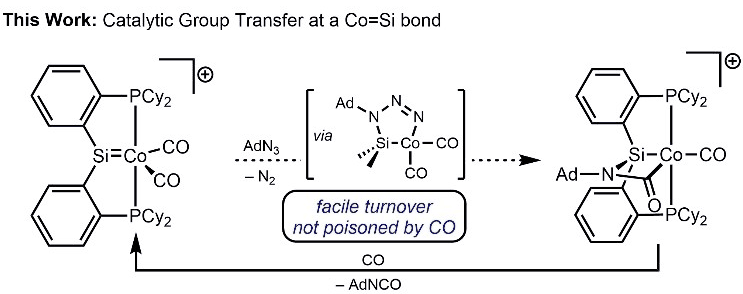
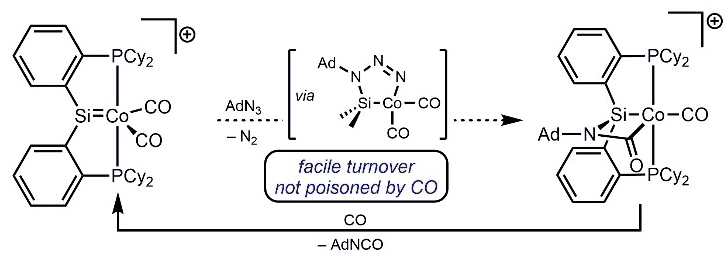
feat: research motifs, timeline, floating section rail, clickable schemes
- Four drawn SVG motifs, one per research bullet: a branching network, a
  seven-membered ring with a migrating group, a set of timecourses, and a Co=Si
  bond. Drawn rather than extracted so they take colour from the theme and stay
  sharp at any zoom, ~1 KB each.
- Publication timeline positioned true to the years, so the gap after 2018 is
  real rather than evenly spaced. Decorative, since every year is in the
  citations below.
- The section nav becomes a fixed rail in the left gutter above 70em, keeping
  one nav element so only one navigation landmark is ever exposed. Adds an 'On
  this page' label, dot markers, and a target-based active state via :has().
- Graphical abstracts link to their DOI, with the border picking up the accent
  on hover and focus.
- Angew scheme recropped without the 'This Work' caption.
- Key phrases bolded in the bio; recital linked from the music minor.

Changed region(s): [[0.0, 0.0276, 1.0, 0.9921], [0.3034, 0.3858, 0.3641, 0.4409]]

diff --git a/index.html b/index.html
@@ -81,12 +81,13 @@
 <main id="main" tabindex="-1">
 
   <p>
-    I study how selectivity arises in reversible reaction networks. Using dynamic radical
-    chemistry, I remodel the skeletons and peripheries of saturated,
-    C(sp<sup>3</sup>)-rich molecules, and I build differentiable kinetic models so that
-    the behavior of those networks becomes something we can measure and predict rather
-    than only rationalize. Before MIT, I studied chemistry and computer science at
-    Carleton College, where I also minored in music performance.
+    I study <strong>how selectivity arises in reversible reaction networks</strong>. Using
+    dynamic radical chemistry, I remodel the skeletons and peripheries of saturated,
+    C(sp<sup>3</sup>)-rich molecules, and I build <strong>differentiable kinetic
+    models</strong> so that the behavior of those networks becomes something we can measure
+    and predict rather than only rationalize. Before MIT, I studied chemistry and computer
+    science at Carleton College, where I also minored in
+    <a href="https://imagencloud.carleton.edu/record/62771">music performance in voice</a>.
   </p>
 
   <!-- role="list" is redundant per spec but restores the list semantics that
@@ -118,7 +119,11 @@
     </li>
   </ul>
 
+  <!-- One nav, restyled by viewport: an inline row on narrow screens, a fixed
+       rail in the left gutter on wide ones. Keeping a single element avoids
+       exposing two navigation landmarks for the same links. -->
   <nav class="linkrow section-nav" aria-label="Sections">
+    <span class="nav-label">On this page</span>
     <a href="#research">Research</a>
     <a href="#publications">Publications</a>
     <a href="#software">Software</a>
@@ -127,30 +132,80 @@
 
   <section id="research">
     <h2>Research</h2>
-    <ul class="stack" role="list">
+    <!-- Motifs are drawn rather than extracted so they take their colour from
+         the theme and stay sharp at any zoom. Decorative: each one restates the
+         sentence beside it, so they carry no alt text of their own. -->
+    <ul class="stack research" role="list">
       <li>
-        <strong>Reaction-network control.</strong> In a densely connected, reversible
-        network, selectivity can arise from how many rate constants relate to one another
-        rather than from a single rate-determining step.
+        <svg class="motif" viewBox="0 0 56 40" aria-hidden="true" focusable="false">
+          <g fill="none" stroke="currentColor" stroke-linecap="round" stroke-width="1.4">
+            <path d="M9 12v17M9 29l19 5M28 34l19-6M28 7v27M47 13v15M9 12l19 22" opacity=".3"/>
+            <path d="M9 12l19-5 19 6" stroke-width="2.4"/>
+          </g>
+          <g fill="currentColor">
+            <circle cx="9" cy="12" r="2.8"/><circle cx="28" cy="7" r="2.8"/><circle cx="47" cy="13" r="2.8"/>
+            <g opacity=".3"><circle cx="9" cy="29" r="2.3"/><circle cx="28" cy="34" r="2.3"/><circle cx="47" cy="28" r="2.3"/></g>
+          </g>
+        </svg>
+        <p>
+          <strong>Reaction-network control.</strong> In a densely connected, reversible
+          network, selectivity can arise from how many rate constants relate to one another
+          rather than from a single rate-determining step.
+        </p>
       </li>
       <li>
-        <strong>Skeletal and peripheral remodeling.</strong> Reversible hydrogen atom
-        transfer samples radicals at multiple ring positions while a downstream radical
-        addition and β-scission sequence sets the product,
-        <a href="#publications">migrating a ketone across seven-membered rings</a> to give
-        1,4-disubstituted products.
+        <svg class="motif" viewBox="0 0 56 40" aria-hidden="true" focusable="false">
+          <g fill="none" stroke="currentColor" stroke-linecap="round" stroke-linejoin="round">
+            <path d="M24 5l11.7 5.7 2.9 12.6-8.1 10.2h-13l-8.1-10.2 2.9-12.6z" stroke-width="1.5" opacity=".4"/>
+            <path d="M25.5 8Q39 18 31.5 30.5" stroke-width="1.7"/>
+            <path d="M35.6 27.7L31.5 30.5 32 25.5" stroke-width="1.7"/>
+          </g>
+          <g fill="currentColor">
+            <circle cx="24" cy="5" r="2.6" opacity=".4"/>
+            <circle cx="30.5" cy="33.5" r="3.1"/>
+          </g>
+        </svg>
+        <p>
+          <strong>Skeletal and peripheral remodeling.</strong> Reversible hydrogen atom
+          transfer samples radicals at multiple ring positions while a downstream radical
+          addition and β-scission sequence sets the product,
+          <a href="#publications">migrating a ketone across seven-membered rings</a> to give
+          1,4-disubstituted products.
+        </p>
       </li>
       <li>
-        <strong>Differentiable kinetic modeling.</strong> I recover rate constants from
-        timecourse data using networks specified in <code>Catalyst.jl</code>, stiff solvers
-        from <code>DifferentialEquations.jl</code>, and adjoint sensitivities from
-        <code>SciMLSensitivity.jl</code>.
+        <svg class="motif" viewBox="0 0 56 40" aria-hidden="true" focusable="false">
+          <g fill="none" stroke="currentColor" stroke-linecap="round">
+            <path d="M7 6v28h45" stroke-width="1.3" opacity=".3"/>
+            <path d="M7 10c9 0 8 20 45 22" stroke-width="1.6" opacity=".45"/>
+            <path d="M7 33c5 0 6-18 15-16.5S37 28 52 30" stroke-width="1.6" opacity=".45"/>
+            <path d="M7 33c15 0 15-22 45-24" stroke-width="2.2"/>
+          </g>
+        </svg>
+        <p>
+          <strong>Differentiable kinetic modeling.</strong> I recover rate constants from
+          timecourse data using networks specified in <code>Catalyst.jl</code>, stiff solvers
+          from <code>DifferentialEquations.jl</code>, and adjoint sensitivities from
+          <code>SciMLSensitivity.jl</code>.
+        </p>
       </li>
       <li>
-        <strong>Metal–ligand cooperativity.</strong> In cobalt silylenes the Co=Si bond
-        offers two chemically distinct activation sites, letting cobalt and silicon divide
-        a nitrene transfer to carbon monoxide that would otherwise poison a single-site
-        catalyst.
+        <svg class="motif" viewBox="0 0 56 40" aria-hidden="true" focusable="false">
+          <g fill="none" stroke="currentColor" stroke-linecap="round" stroke-width="1.5">
+            <path d="M14 13.5L7 8M14 26.5L7 32M42 13.5L49 8M42 26.5L49 32" opacity=".35"/>
+            <path d="M22.5 17.5h11M22.5 22.5h11" stroke-width="2"/>
+          </g>
+          <g fill="currentColor">
+            <circle cx="17" cy="20" r="5"/>
+            <circle cx="39" cy="20" r="4.2"/>
+          </g>
+        </svg>
+        <p>
+          <strong>Metal–ligand cooperativity.</strong> In cobalt silylenes the Co=Si bond
+          offers two chemically distinct activation sites, letting cobalt and silicon divide
+          a nitrene transfer to carbon monoxide that would otherwise poison a single-site
+          catalyst.
+        </p>
       </li>
     </ul>
     <p class="note">Current work extends these ideas to new scaffolds and reaction classes.</p>
@@ -158,6 +213,14 @@
 
   <section id="publications">
     <h2>Publications</h2>
+    <!-- Positions are true to the years, so the gap after 2018 is real. The
+         same years are in every citation below, so this is decorative. -->
+    <ol class="timeline" aria-hidden="true">
+      <li style="--at:0%"><span>2018</span></li>
+      <li style="--at:50%"><span>2022</span></li>
+      <li style="--at:87.5%"><span>2025</span></li>
+      <li style="--at:100%"><span>2026</span></li>
+    </ol>
     <ul class="pubs" role="list">
 
       <li>
@@ -185,9 +248,10 @@
           author)</span>
         </p>
         <p class="pub-venue"><i>J. Am. Chem. Soc.</i> 2025, 147, 32077–32084.</p>
-        <img class="toc" src="assets/toc-jacs-2025.png" width="1302" height="561"
-             loading="lazy" decoding="async"
-             alt="Graphical abstract: a 1,1-disubstituted acylcycloheptane converts by way of a bicyclo[3.2.1] oxyl radical into its 1,4-disubstituted isomer.">
+        <a class="toc-link" href="https://doi.org/10.1021/jacs.5c10470">
+          <img class="toc" src="assets/toc-jacs-2025.png" width="1302" height="561"
+               loading="lazy" decoding="async"
+               alt="Graphical abstract: a 1,1-disubstituted acylcycloheptane converts by way of a bicyclo[3.2.1] oxyl radical into its 1,4-disubstituted isomer."></a>
       </li>
 
       <li>
@@ -200,9 +264,10 @@
           Zhang, J.; Kohen, D.
         </p>
         <p class="pub-venue"><i>Angew. Chem. Int. Ed.</i> 2022, 61, e202205748 · Hot Paper.</p>
-        <img class="toc" src="assets/toc-angew-2022.png" width="743" height="294"
-             loading="lazy" decoding="async"
-             alt="Graphical abstract: a cationic cobalt silylene turns adamantyl azide and carbon monoxide into adamantyl isocyanate, with turnover that carbon monoxide does not poison.">
+        <a class="toc-link" href="https://doi.org/10.1002/anie.202205748">
+          <img class="toc" src="assets/toc-angew-2022.png" width="725" height="254"
+               loading="lazy" decoding="async"
+               alt="Scheme: a cationic cobalt silylene turns adamantyl azide and carbon monoxide into adamantyl isocyanate, with turnover that carbon monoxide does not poison."></a>
       </li>
 
       <li>

diff --git a/styles.css b/styles.css
@@ -277,6 +277,72 @@ h1 {
   margin-top: var(--s4);
   padding-top: var(--s4);
   border-top: 1px solid var(--hairline);
+  align-items: baseline;
+}
+
+.nav-label {
+  font-size: 0.75rem;
+  font-weight: 600;
+  letter-spacing: 0.08em;
+  text-transform: uppercase;
+  color: var(--muted);
+}
+
+.section-nav a::before {
+  content: "";
+  width: 5px;
+  height: 5px;
+  margin-right: 0.5em;
+  border-radius: 50%;
+  background: currentColor;
+  opacity: 0.45;
+}
+
+.section-nav a:hover::before,
+.section-nav a:focus-visible::before {
+  opacity: 1;
+}
+
+/* Wide screens have empty gutters, so the same nav becomes a fixed rail beside
+   the column instead of a row above it. 32rem = half the 42rem measure plus the
+   rail's own width and gap, so it never collides with the text. */
+@media (min-width: 70em) {
+  .section-nav {
+    position: fixed;
+    top: 50%;
+    left: calc(50% - 32rem);
+    transform: translateY(-50%);
+    flex-direction: column;
+    align-items: flex-start;
+    gap: var(--s3);
+    width: 9rem;
+    margin: 0;
+    padding: var(--s1) 0 var(--s1) var(--s4);
+    border-top: 0;
+    border-left: 1px solid var(--hairline);
+  }
+
+  .nav-label {
+    margin-bottom: var(--s1);
+  }
+
+  /* Marks the section jumped to; no scroll tracking, so it reflects the last
+     link followed rather than the current scroll position. */
+  body:has(#research:target) .section-nav a[href="#research"],
+  body:has(#publications:target) .section-nav a[href="#publications"],
+  body:has(#software:target) .section-nav a[href="#software"],
+  body:has(#teaching:target) .section-nav a[href="#teaching"] {
+    color: var(--text);
+    font-weight: 600;
+  }
+
+  body:has(#research:target) .section-nav a[href="#research"]::before,
+  body:has(#publications:target) .section-nav a[href="#publications"]::before,
+  body:has(#software:target) .section-nav a[href="#software"]::before,
+  body:has(#teaching:target) .section-nav a[href="#teaching"]::before {
+    background: var(--accent);
+    opacity: 1;
+  }
 }
 
 /* --------------------------------------------------------------------------
@@ -326,8 +392,91 @@ h2 {
 }
 
 /* --------------------------------------------------------------------------
+   Research motifs
+   -------------------------------------------------------------------------- */
+
+.research {
+  gap: var(--s5);
+}
+
+.research li {
+  display: flex;
+  align-items: flex-start;
+  gap: var(--s4);
+}
+
+.motif {
+  flex: 0 0 auto;
+  width: 2.75rem;
+  height: 1.96rem;
+  margin-top: 0.3rem;
+  color: var(--accent);
+  overflow: visible;
+}
+
+@media (min-width: 40em) {
+  .motif {
+    width: 3.5rem;
+    height: 2.5rem;
+  }
+}
+
+/* --------------------------------------------------------------------------
    Publications
    -------------------------------------------------------------------------- */
+
+.timeline {
+  position: relative;
+  height: 2.25rem;
+  margin: calc(var(--s5) * -1) 0 var(--s6);
+  padding: 0;
+  list-style: none;
+  border-bottom: 1px solid var(--hairline);
+}
+
+.timeline li {
+  position: absolute;
+  bottom: 0;
+  left: var(--at);
+  transform: translateX(-50%);
+  font-size: 0.75rem;
+  color: var(--muted);
+}
+
+.timeline li:first-child {
+  transform: translateX(0);
+}
+
+.timeline li:last-child {
+  transform: translateX(-100%);
+}
+
+.timeline span {
+  display: block;
+  padding-bottom: 0.4rem;
+}
+
+.timeline li::after {
+  content: "";
+  position: absolute;
+  bottom: -3.5px;
+  left: 50%;
+  width: 6px;
+  height: 6px;
+  margin-left: -3px;
+  border-radius: 50%;
+  background: var(--accent);
+}
+
+.timeline li:first-child::after {
+  left: 0.6em;
+}
+
+.timeline li:last-child::after {
+  left: auto;
+  right: 0.6em;
+  margin-left: 0;
+}
 
 .pubs {
   display: grid;
@@ -361,6 +510,11 @@ h2 {
 /* Graphical abstracts are black line art drawn for print, so they keep a paper
    plate in both themes; on dark backgrounds it is dimmed slightly so it does
    not glare beside the surrounding text. */
+.toc-link {
+  display: block;
+  text-decoration: none;
+}
+
 .toc {
   display: block;
   width: 100%;
@@ -370,6 +524,12 @@ h2 {
   background: #ffffff;
   border: 1px solid var(--hairline);
   border-radius: 6px;
+  transition: border-color 0.12s ease;
+}
+
+.toc-link:hover .toc,
+.toc-link:focus-visible .toc {
+  border-color: var(--accent);
 }
 
 @media (prefers-color-scheme: dark) {
